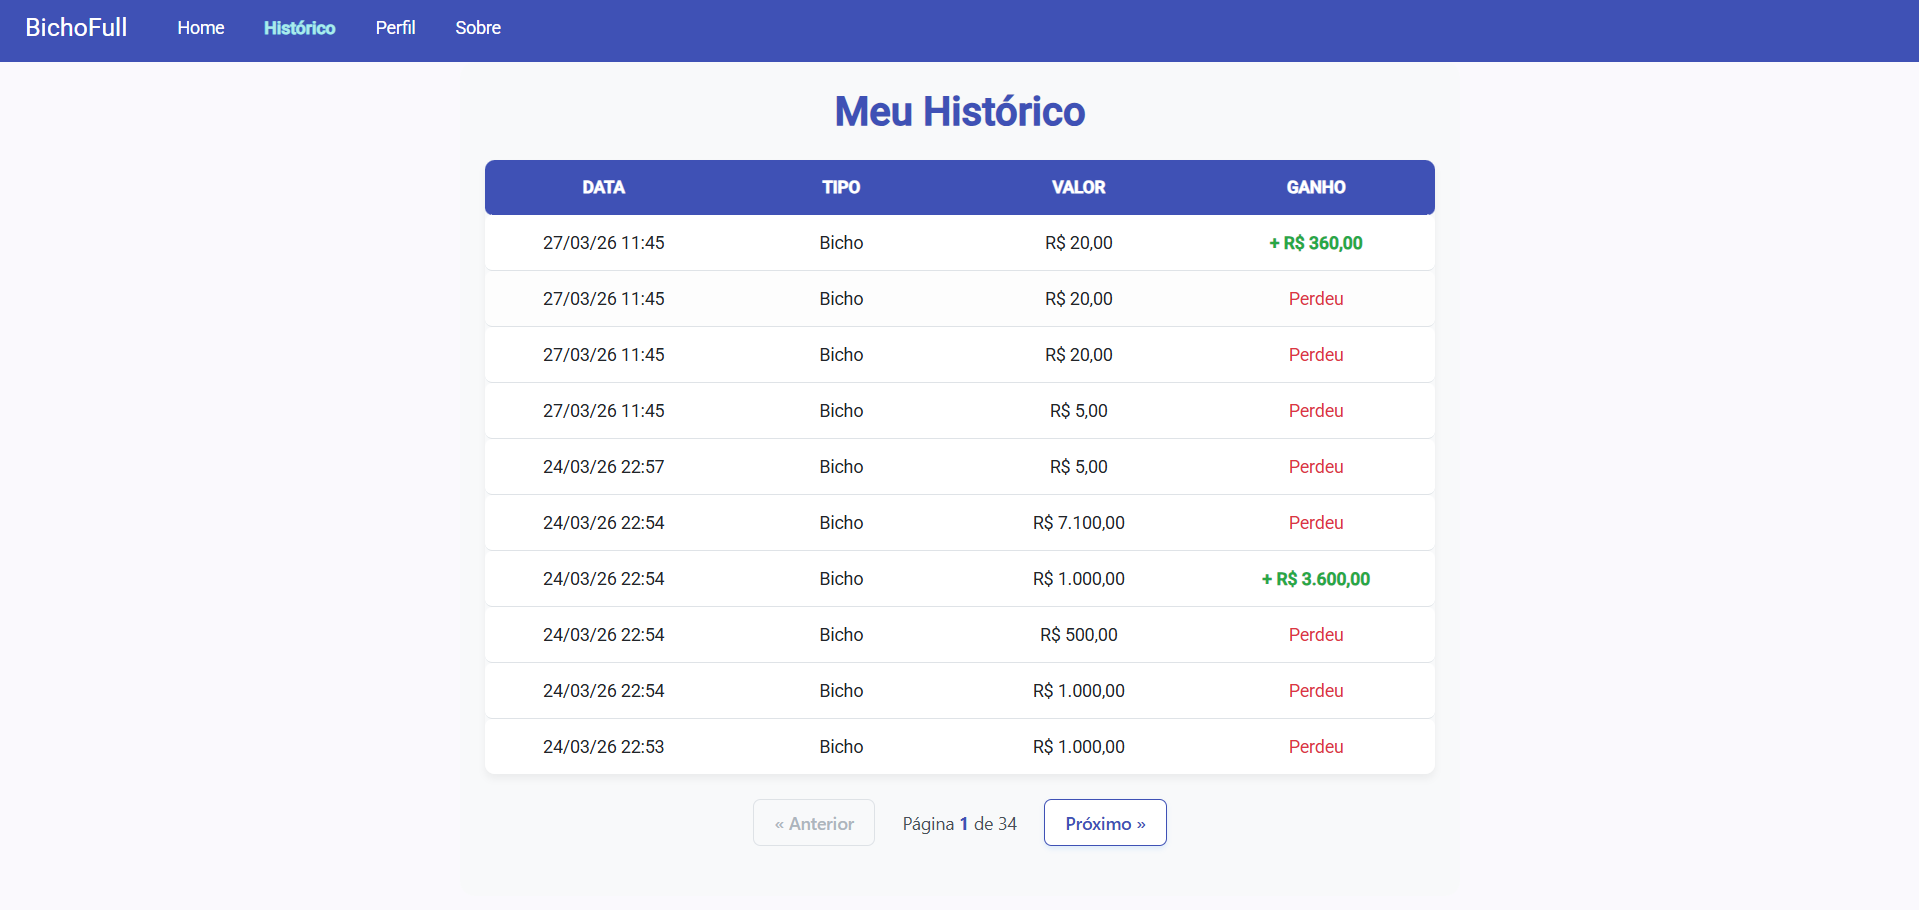
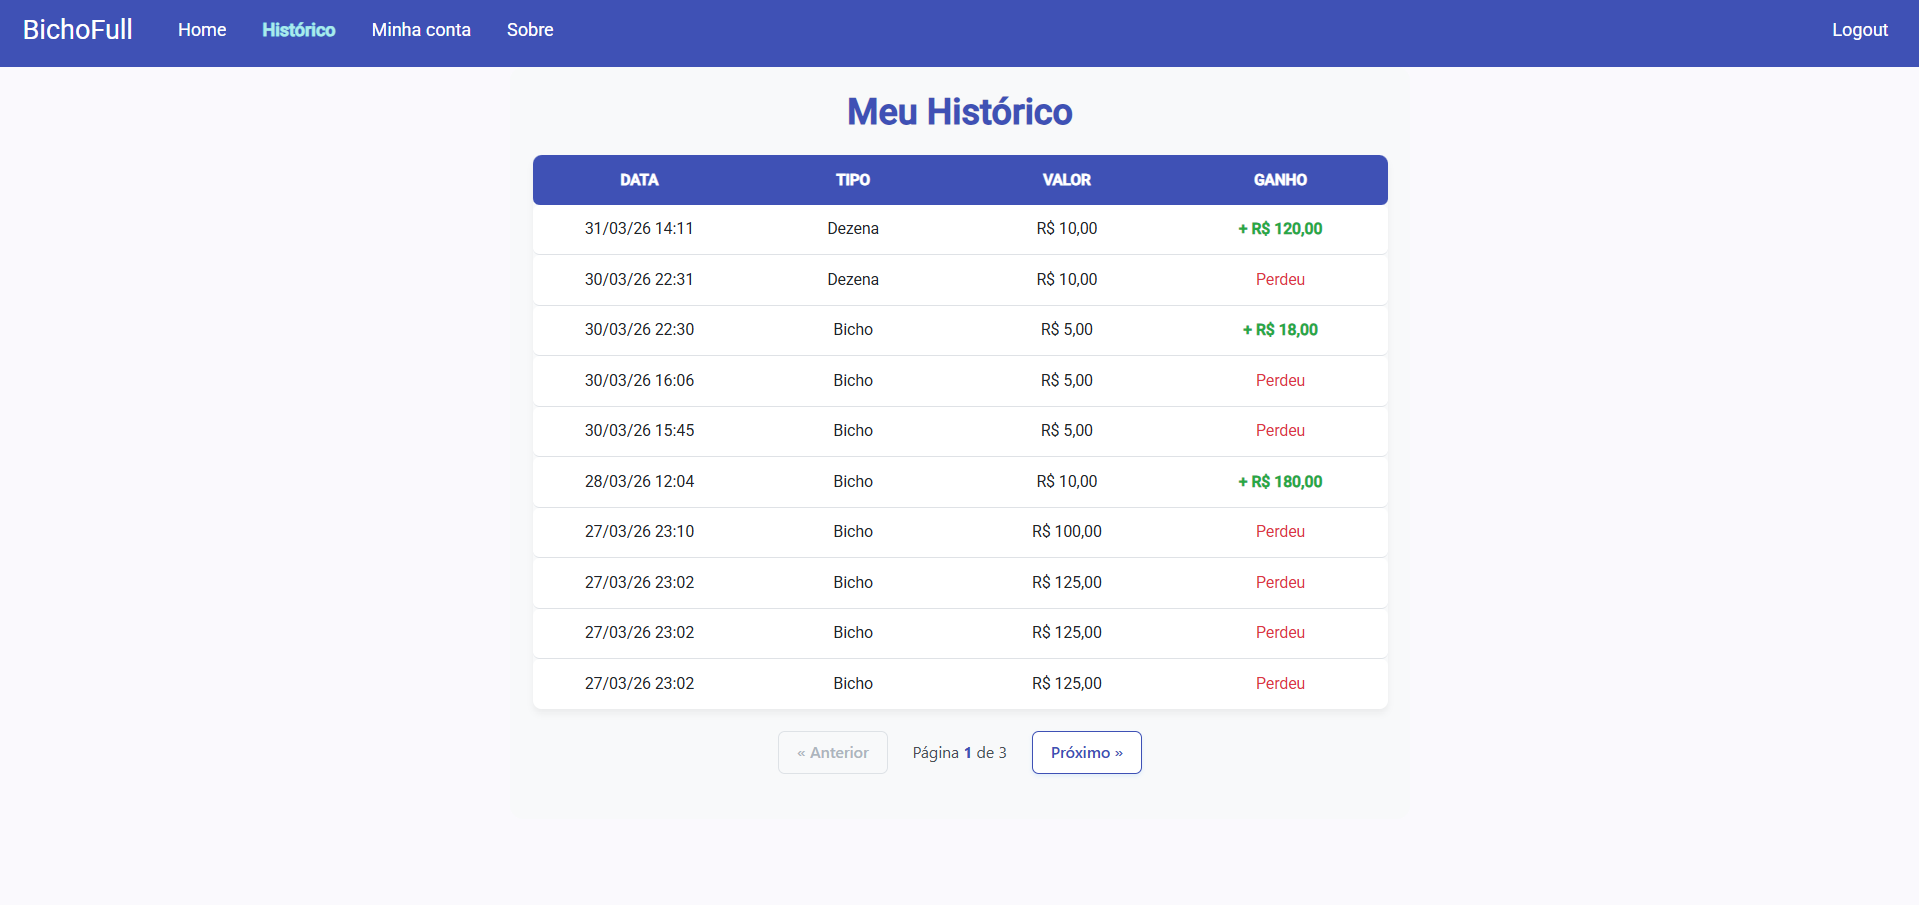
docs: update readme

diff --git a/README.md b/README.md
@@ -50,44 +50,71 @@ Isso garante maior organização, escalabilidade e facilidade de manutenção.
 
 ## 🔐 Funcionalidades do Back-end (API)
 
-A API REST está sendo desenvolvida com os seguintes endpoints:
+A API REST possui os seguintes endpoints:
 
 ### 🔑 Autenticação
 - `POST api/auth/register` → Cadastro de usuário  
 - `POST api/auth/login` → Login de usuário  
+- `POST api/auth/logout` → Logout de usuário
 
 ### 👤 Usuário
 - `GET api/users/me` → Dados do usuário autenticado  
-- `PATCH api/users/me/change_password` → Alterar senha  
 - `POST api/users/me/deposit` → Realizar depósito de saldo  
 
 ### 🐯 Animais
-- `GET /animals` → Listar animais disponíveis  
+- `GET api/animals` → Listar animais disponíveis  
 
 ### 🎲 Apostas
-- `POST /bets` → Criar nova aposta 
+- `POST api/bets` → Criar nova aposta 
 - `GET api/bets/my-bets` → Listar apostas do usuário autenticado 
-- `GET /bets/{id}/result` → Dados do resultado da aposta  
+ 
 
 ## 🖥 Telas da Aplicação
+### Tela Login ###
+![Tela Login](assets/login.png)
+
 ### Tela Principal ###
 ![Tela Principal](assets/home.png)
 
 ### Tela de Histórico ###
 ![Tela de Histórico](assets/historico.png)
 
+### Tela "Minha Conta" ###
+![Tela "Minha Conta"](assets/minha-conta.png)
+
+
 ### Tela "Sobre" ###
 ![Tela "Sobre"](assets/sobre.png)
 
 ---
 
-## Como executar
-### Pré-requisitos
-- Ter Docker instalado
+## Como acessar o projeto de forma remota 
+- Acesse http://18.220.215.216/ para visualizar o projeto
+- Ou acesse http://18.220.215.216:8080/swagger-ui/index.html para ter acesso a documentação
 
-### Passo 1:
-- Clone o repositório do projeto:
+## Como executar localmente
+### 📋 Pré-requisitos
+Antes de começar, você precisará ter instalado em sua máquina:
+* [Docker](https://www.docker.com/get-started) 🐳
+* [Docker Desktop](https://www.docker.com/products/docker-desktop/) (Certifique-se de que ele esteja em execução)
 
+### Passo 1: Clone o repositório
+
+```git clone https://github.com/matheushnobre/jogo-do-bicho.git ```
+
+### Passo 2: Acesse a pasta do projeto
+- Abra o terminal na raiz do diretório clonado:
+
+``` cd jogo-do-bicho ```
+
+### Passo 3: Suba os containers
+- Execute o comando abaixo para buildar e iniciar todos os serviços:
+
+``` docker compose up -d ```
+
+### Links de Acesso
+
+- Frontend: http://localhost:4200
 
 Desenvolvido por **Matheus Nobre** 🐾  
 IFAM – Campus Parintins
